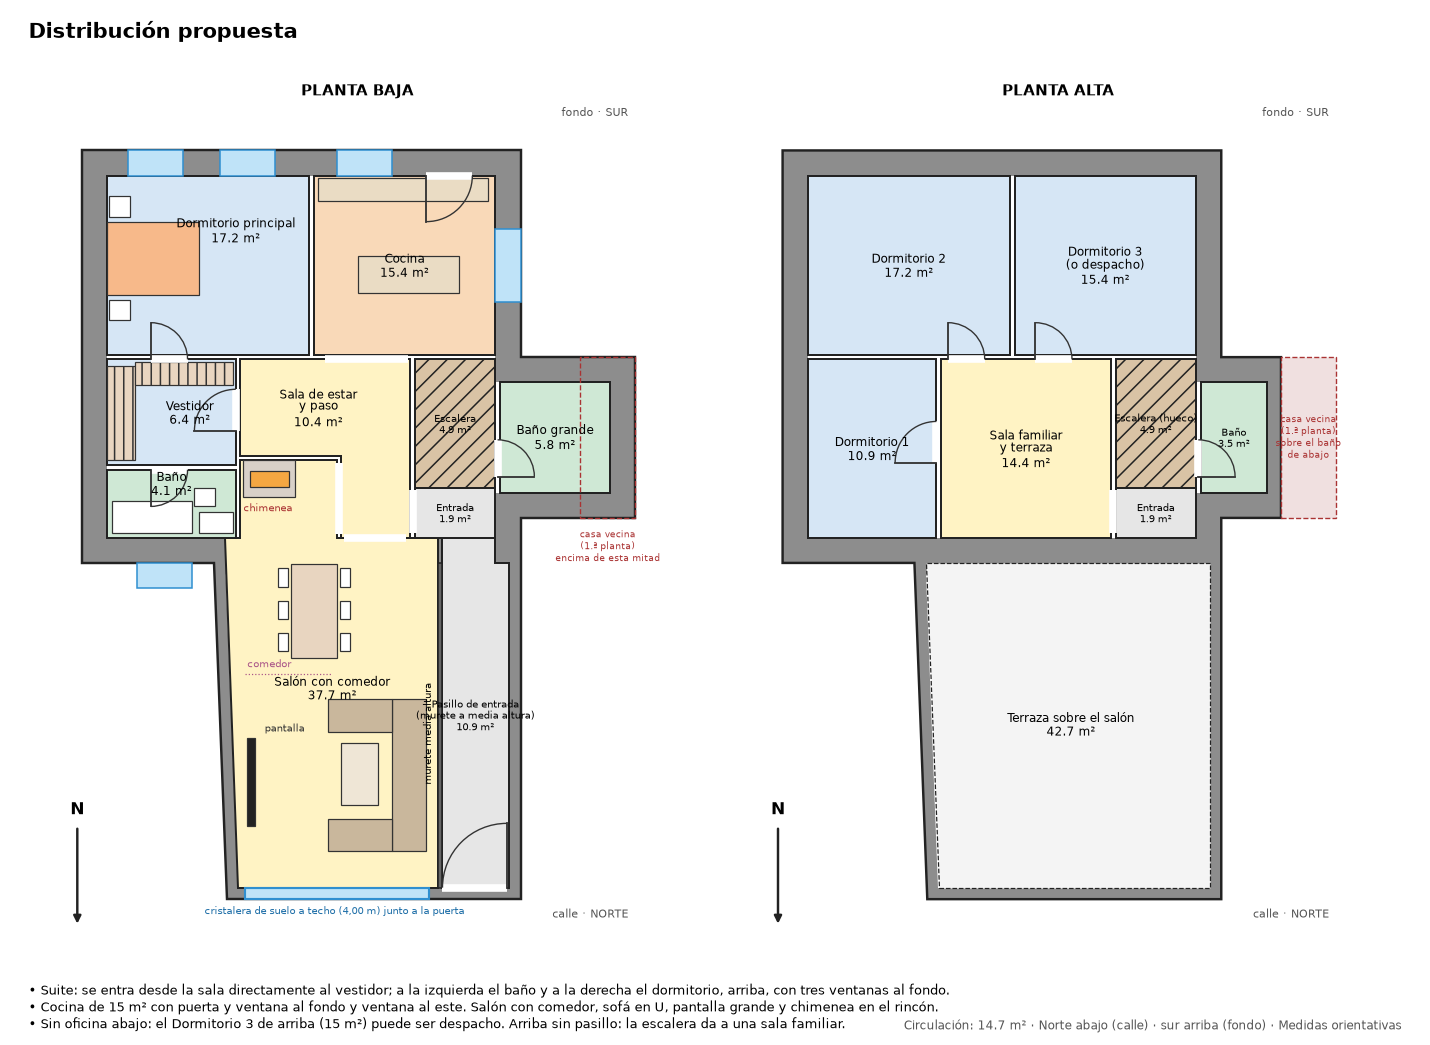
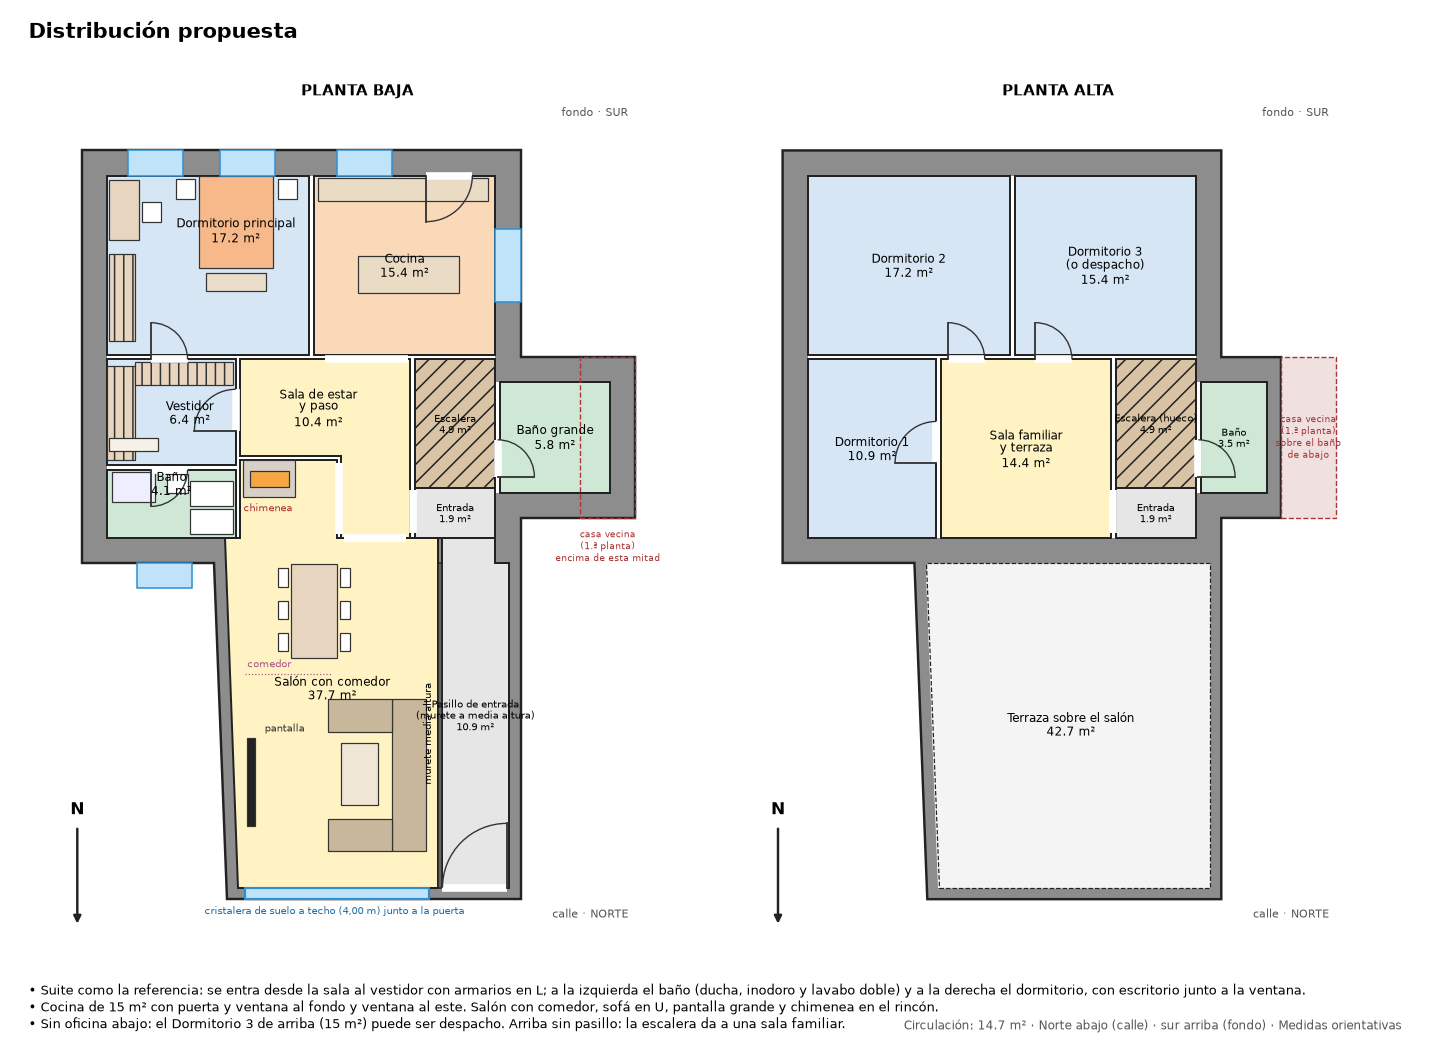
Suite principal estilo referencia: vestidor en L, escritorio, baño; detalle suite.png
Claude-Session: https://claude.ai/code/session_01GrFzVPJDRJqirwnmNdffa5

diff --git a/casa3d/opciones.py b/casa3d/opciones.py
@@ -74,10 +74,13 @@ def muebles_pb(ax):
     r(ax, 4.55, 5.25, 1.00, 2.05, "#e8d5c0")
     for y in (5.4, 6.1, 6.8): r(ax, 4.27, y, .22, .4); r(ax, 5.61, y, .22, .4)
     ax.plot([3.55, 5.45], [4.9, 4.9], color="#a58", lw=.8, ls=":", zorder=6); ax.text(3.6, 5.0, "comedor", fontsize=6.3, color="#a58", va="bottom", zorder=8)
-    # suite: cama contra el muro oeste, armarios en el vestidor, baño
-    r(ax, 0.55, 13.15, 2.00, 1.60, "#f7b98a"); r(ax, 0.60, 12.60, .45, .45); r(ax, 0.60, 14.85, .45, .45)
-    r(ax, 0.55, 9.55, 0.60, 2.05, "#e8d5c0", "||"); r(ax, 1.15, 11.20, 2.15, 0.50, "#e8d5c0", "||")
-    r(ax, 0.65, 7.97, 1.75, 0.70); r(ax, 2.55, 7.97, 0.75, 0.45); r(ax, 2.45, 8.55, 0.45, 0.40)
+    # suite como la referencia: cama con cabecero al fondo entre mesitas, banco a los pies, escritorio junto a la ventana, vestidor con armarios en L y baño con ducha, inodoro y lavabo doble
+    r(ax, 2.55, 13.75, 1.60, 2.00, "#f7b98a"); r(ax, 2.05, 15.25, .42, .42); r(ax, 4.27, 15.25, .42, .42); r(ax, 2.70, 13.25, 1.30, .38, "#e9dcc8")
+    r(ax, 0.60, 14.35, 0.65, 1.30, "#e8d5c0"); r(ax, 1.30, 14.75, .42, .42)                                       # escritorio y silla, junto a la ventana
+    r(ax, 0.60, 12.15, 0.55, 1.90, "#e8d5c0", "||")                                                              # armario auxiliar del dormitorio
+    r(ax, 0.55, 9.55, 0.60, 2.05, "#e8d5c0", "||"); r(ax, 1.15, 11.20, 2.15, 0.50, "#e8d5c0", "||")              # vestidor: armarios en L
+    r(ax, 0.60, 9.75, 1.05, 0.30, "#f6f1e8")                                                                     # alfombra / banco
+    r(ax, 0.65, 8.65, 0.95, 0.65, "#eef"); r(ax, 1.85, 8.85, 0.45, 0.40); r(ax, 2.35, 7.95, 0.95, 0.55); r(ax, 2.35, 8.55, 0.95, 0.55)   # ducha, inodoro, doble lavabo
     # cocina: isla y fregadero junto a la fachada del fondo
     r(ax, 6.0, 13.2, 2.2, 0.8, "#eadcc4"); r(ax, 5.15, 15.2, 3.7, 0.5, "#eadcc4")
 
@@ -114,7 +117,7 @@ def dibujar(ax, rooms, doors, planta, abiertos=()):
     return circ, total
 
 
-IDEAS = ["Suite: se entra desde la sala directamente al vestidor; a la izquierda el baño y a la derecha el dormitorio, arriba, con tres ventanas al fondo.",
+IDEAS = ["Suite como la referencia: se entra desde la sala al vestidor con armarios en L; a la izquierda el baño (ducha, inodoro y lavabo doble) y a la derecha el dormitorio, con escritorio junto a la ventana.",
          "Cocina de 15 m² con puerta y ventana al fondo y ventana al este. Salón con comedor, sofá en U, pantalla grande y chimenea en el rincón.",
          "Sin oficina abajo: el Dormitorio 3 de arriba (15 m²) puede ser despacho. Arriba sin pasillo: la escalera da a una sala familiar."]
 
@@ -126,3 +129,25 @@ if __name__ == "__main__":
     fig.text(0.98, 0.012, f"Circulación: {c1 + c2:.1f} m² · Norte abajo (calle) · sur arriba (fondo) · Medidas orientativas", fontsize=8, va="bottom", ha="right", color="#555")
     fig.savefig("distribucion.png", dpi=110)
     print(f"circulación {c1 + c2:.1f} m²; útil PB {t1:.1f}, PA {t2:.1f}")
+
+
+def suite_png():
+    fig, ax = plt.subplots(figsize=(6.2, 10.4))
+    dibujar(ax, PB, PB_DOORS, "PB", PB_OPEN)
+    ax.set_aspect("equal", adjustable="box"); ax.set_xlim(0.0, 5.7); ax.set_ylim(7.3, 16.5)
+    for txt, xy in (("Escritorio", (0.95, 14.0)), ("Cama 1,60 × 2,00", (3.35, 12.95)), ("Armarios en L", (1.85, 11.95)), ("Ducha", (1.0, 8.2))):
+        ax.text(*xy, txt, fontsize=8, color="#7a3", ha="center", weight="bold", zorder=12)
+    x0,x1=ax.get_xlim(); y0,y1=ax.get_ylim()
+    for t in list(ax.texts)+list(ax.patches)+list(ax.lines):
+        try:
+            if hasattr(t,"get_position"):
+                px,py=t.get_position()
+                if not(x0<=px<=x1 and y0<=py<=y1): t.set_visible(False)
+            t.set_clip_on(True)
+        except Exception: pass
+    for t in ax.texts:
+        if t.get_text() in ("Escritorio","Ducha","Armarios en L"): t.set_visible(False)
+    ax.set_title("Suite principal (detalle): dormitorio 17 m², vestidor 6,4 m², baño 4,1 m²", fontsize=11, weight="bold")
+    fig.savefig("suite.png", dpi=120, bbox_inches="tight"); plt.close(fig)
+
+if __name__ == "__main__": suite_png()
